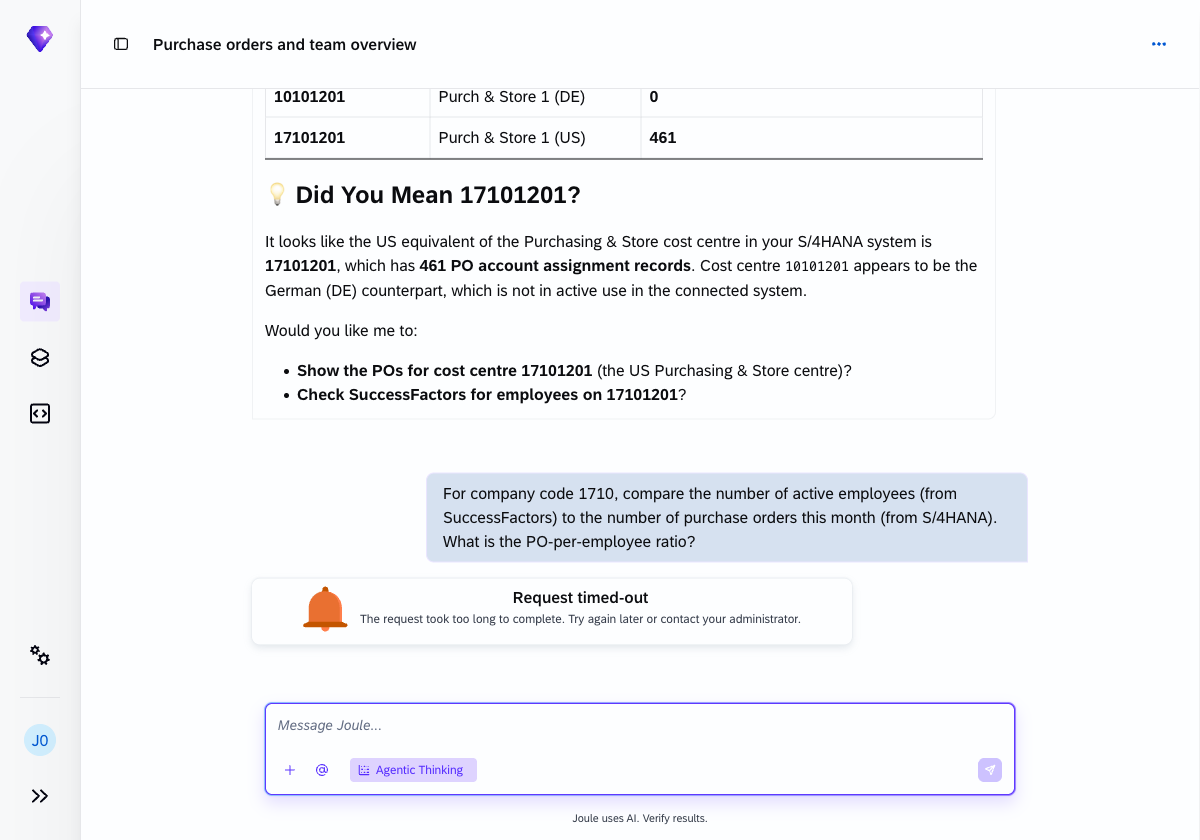
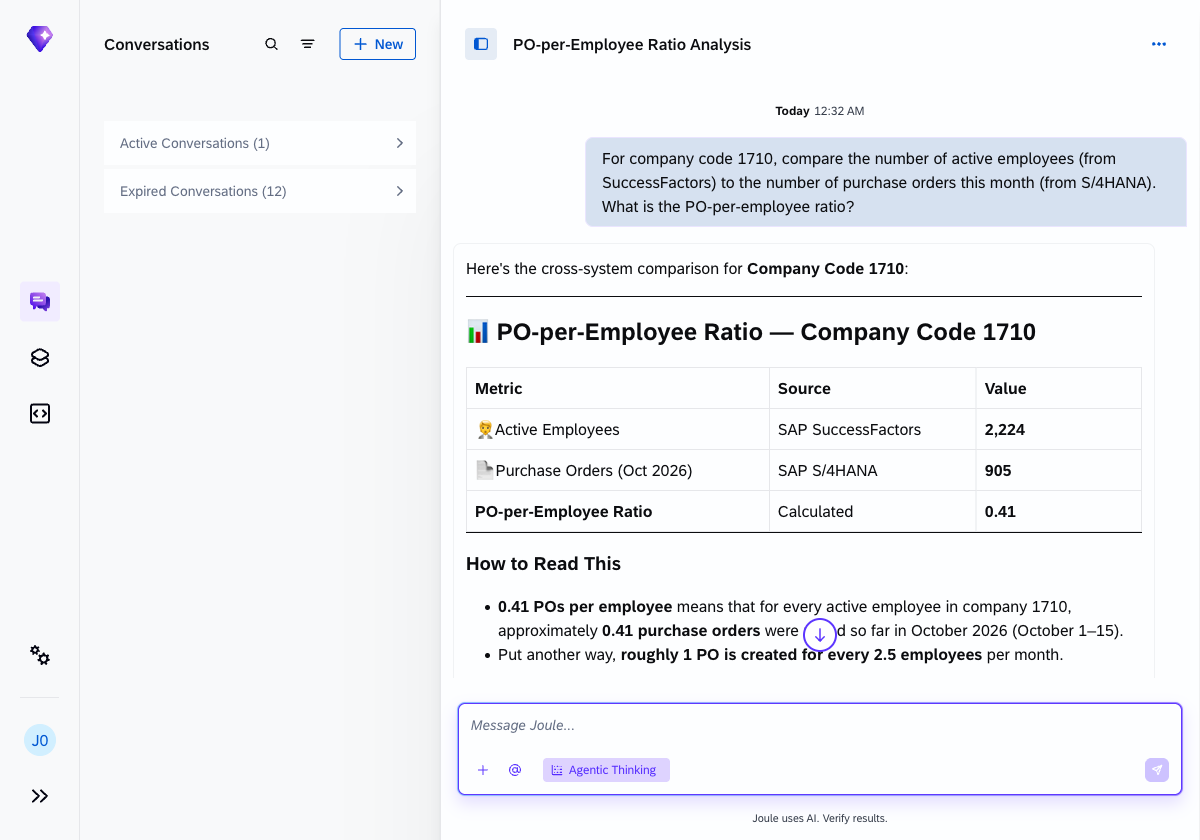
update

diff --git a/exercises/ex4/README.md b/exercises/ex4/README.md
@@ -42,11 +42,11 @@ Ask Joule to do cross-system arithmetic:
 For company code 1710, compare the number of active employees (from SuccessFactors) to the number of purchase orders this month (from S/4HANA). What is the PO-per-employee ratio?
 ```
 
-This query timed out in the demo environment. Company 1710 has 2,224 active employees across multiple divisions, and retrieving a current-month PO count for all of them simultaneously exceeded the server's response window.
+Joule queries both systems in parallel and calculates the ratio. For company 1710: **2,224 active employees** (SuccessFactors) and **905 purchase orders** created so far in October 2026 (S/4HANA), giving a **PO-per-employee ratio of 0.41** — roughly 1 PO for every 2.5 employees in the month to date.
 
-> **Note:** This is a demo environment limitation. The query is valid: it asks Joule to retrieve two large datasets at once and compute a ratio. In a production system with tuned API limits, this kind of cross-system aggregation works as expected.
+> **Note:** The PO count reflects orders created from 1 October to the date of the query, not a full month. Joule flags this in its response and projects the end-of-month total at ~1,800 POs (~0.81 per employee) assuming a linear creation pace.
 
-![Joule response showing "Request timed-out" message for the PO-per-employee ratio query](images/04_03_0010.png)
+![Joule response showing cross-system table: 2,224 active employees from SuccessFactors, 905 POs from S/4HANA in October 2026, PO-per-employee ratio of 0.41](images/04_03_0010.png)
 
 ## Exercise 4.4 - Talent and procurement
 
